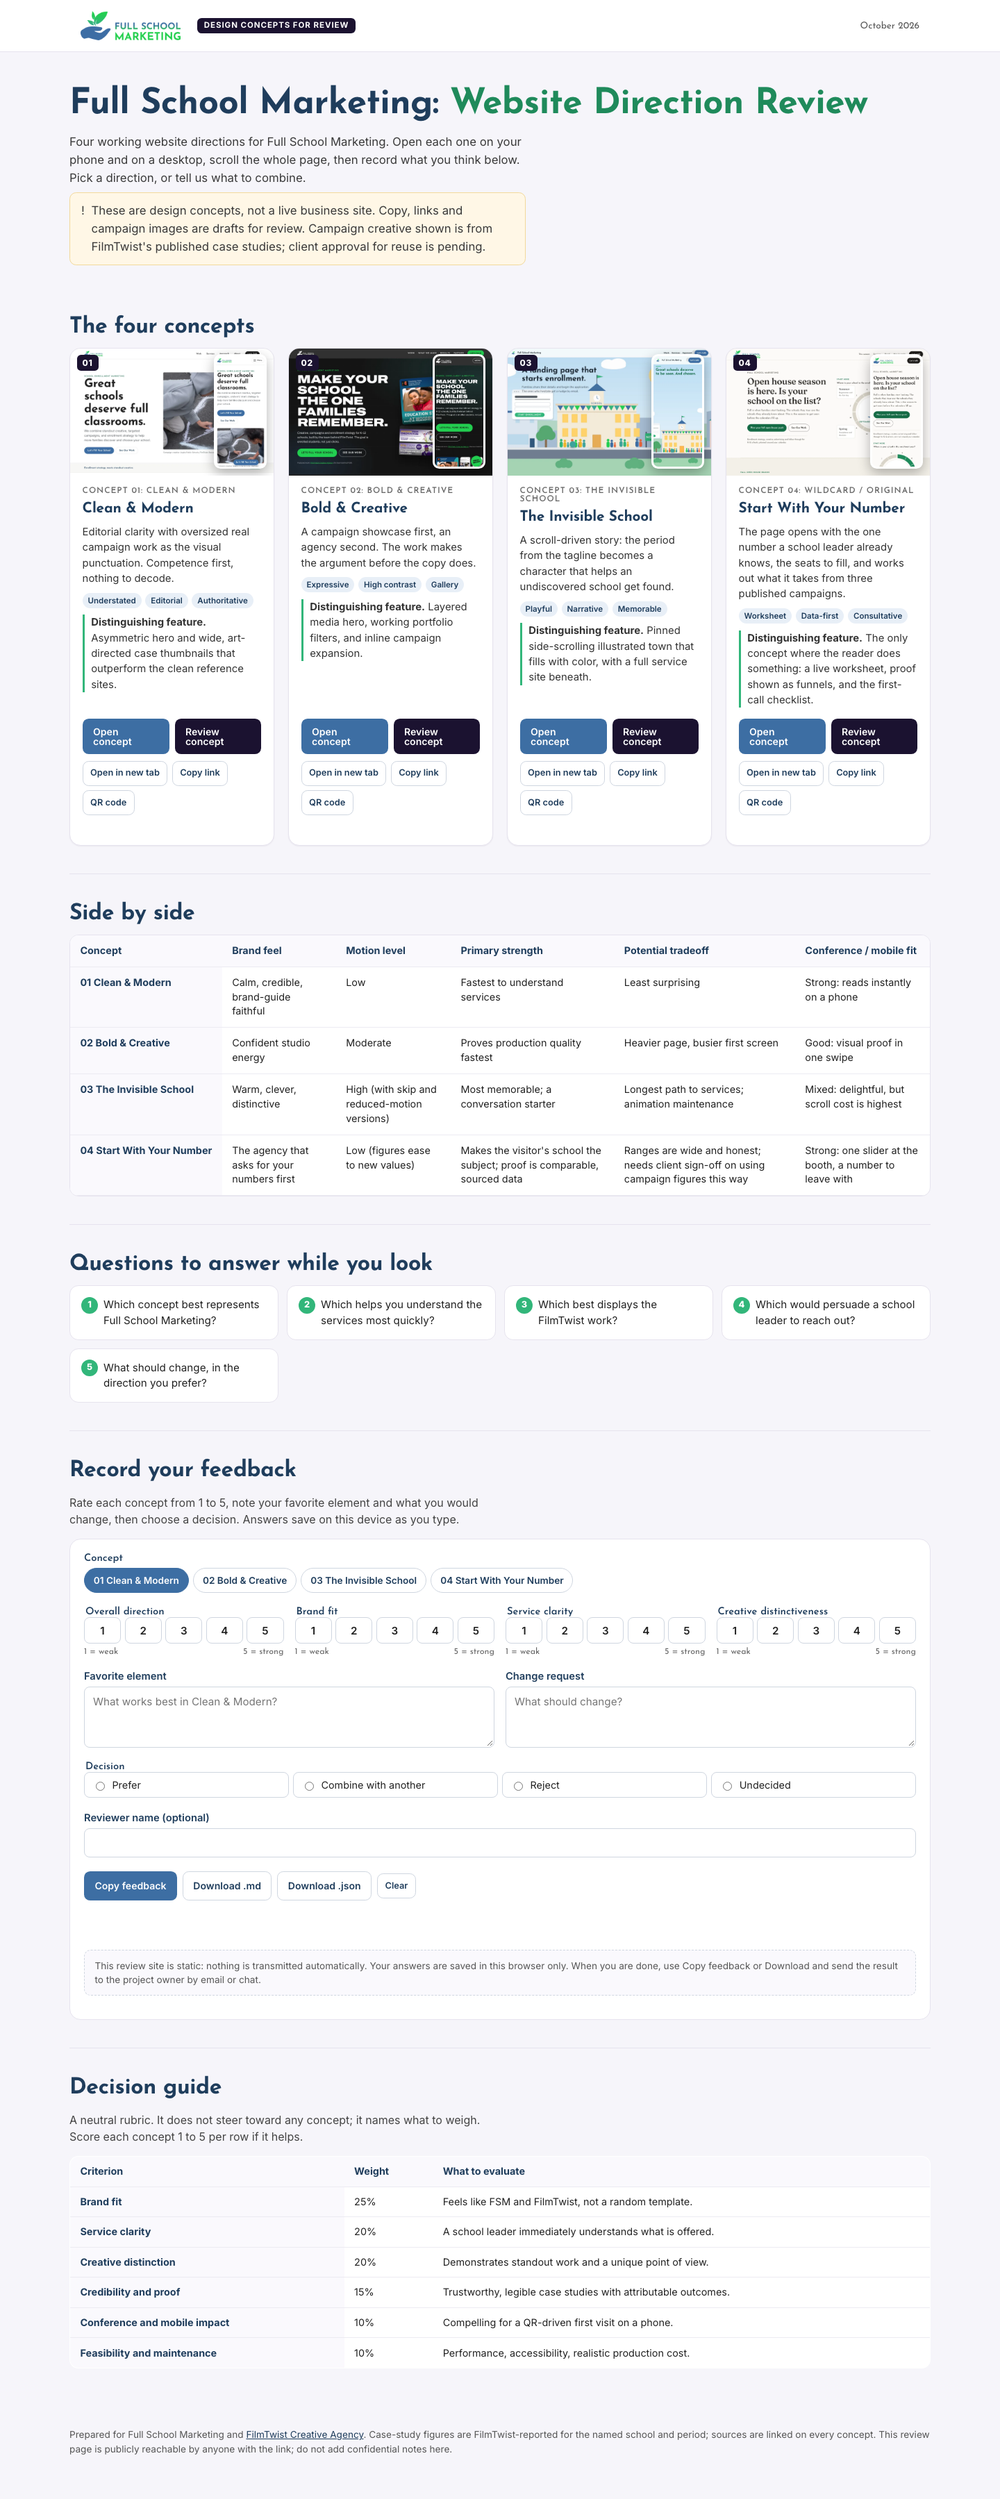
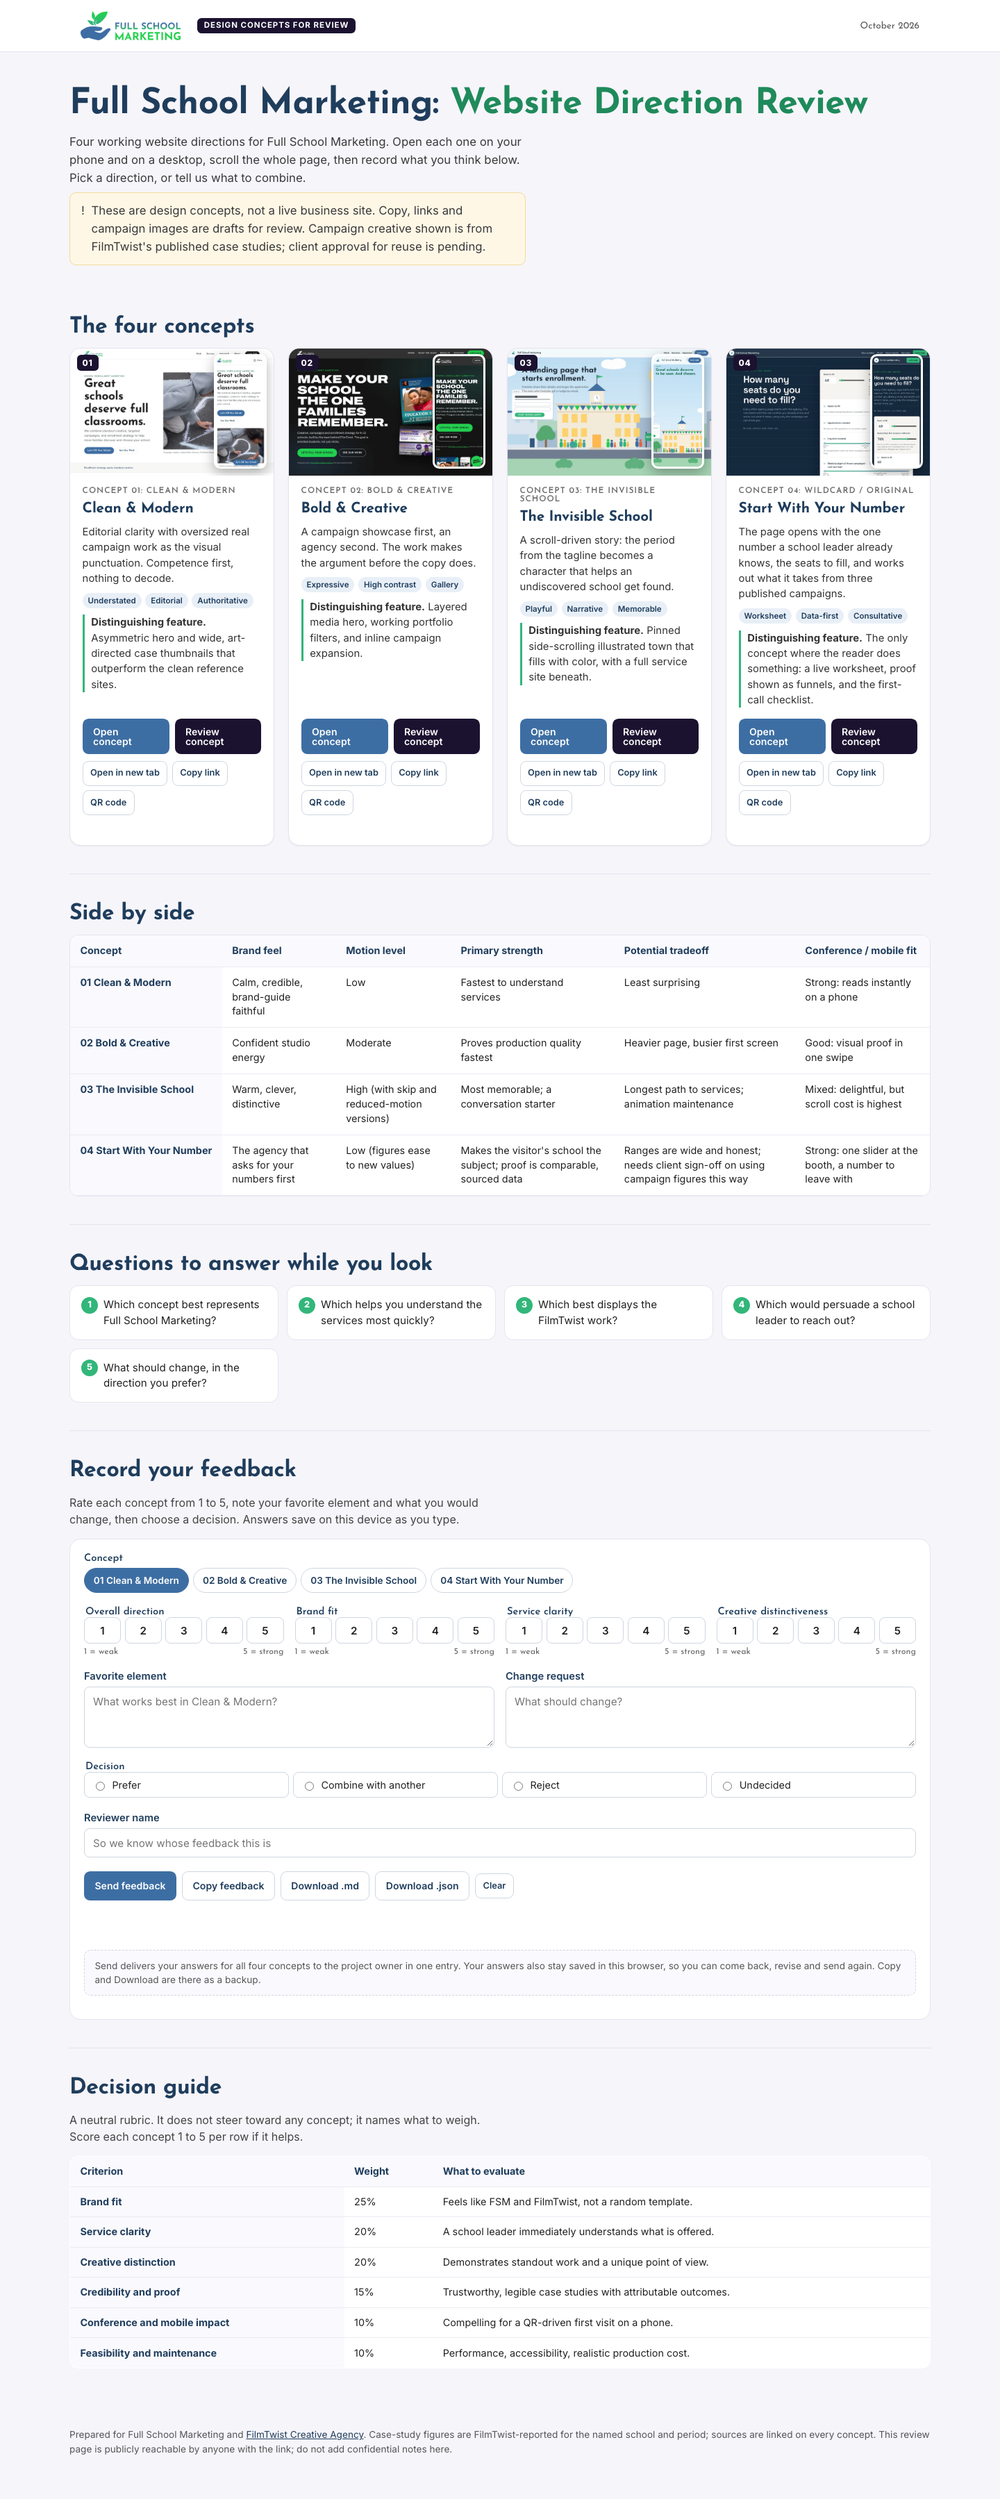
Hub: send feedback to the owner's Google Form (multi-reviewer)
Replaces the unconfigured VITE_FEEDBACK_ENDPOINT path with a working
Send feedback button that posts one form-encoded entry per send to a
Google Form owned by the project owner: reviewer name, per-concept
decision and overall rating, the full Markdown summary and raw JSON.
Name required; untouched concepts send nothing; sent marker persists;
Copy/Download remain as backups. Tests cover the post body and the
blocked cases. Docs, env example and workflow updated.

Changed region(s): [[0.7188, 0.1245, 0.9375, 0.2178], [0.2188, 0.778, 0.25, 0.8091], [0.125, 0.778, 0.1562, 0.8091]]

diff --git a/src/concepts/hub/App.tsx b/src/concepts/hub/App.tsx
@@ -4,7 +4,7 @@ import { siteConfig } from '../../content/config';
 import { brand } from '../../content/media';
 import { SkipLink } from '../../components/SkipLink';
 import { copyText, downloadFile, drawQr } from '../../lib/share';
-import { clearState, emptyConcept, hasAnyInput, loadState, ratingFields, saveState, toJson, toMarkdown, type Decision, type FeedbackState } from './feedback';
+import { clearState, emptyConcept, hasAnyInput, loadState, ratingFields, saveState, sendFeedback, toJson, toMarkdown, type Decision, type FeedbackState } from './feedback';
 
 const REVIEW_DATE = 'October 2026';
 
@@ -73,6 +73,7 @@ function FeedbackForm() {
   const [status, setStatus] = useState('');
   const [submitting, setSubmitting] = useState(false);
   const firstTouch = useRef(true);
+  const justSent = useRef(false);
 
   useEffect(() => {
     const onHash = () => { const id = parseConceptFromHash(); if (id) setSelected(id); };
@@ -87,6 +88,7 @@ function FeedbackForm() {
     if (firstTouch.current) { firstTouch.current = false; return; }
     const next = { ...state, updatedAt: new Date().toISOString() };
     const ok = saveState(next);
+    if (justSent.current) { justSent.current = false; return; } // keep the "sent" message on screen
     setStatus(ok ? `Saved on this device at ${new Date(next.updatedAt).toLocaleTimeString()}.` : 'Could not save on this device (private mode?). Copy or download before leaving.');
   }, [state]);
 
@@ -99,13 +101,20 @@ function FeedbackForm() {
   const dlMd = () => { downloadFile('fsm-website-feedback.md', toMarkdown(state), 'text/markdown'); setStatus('Downloaded fsm-website-feedback.md.'); };
   const dlJson = () => { downloadFile('fsm-website-feedback.json', toJson(state), 'application/json'); setStatus('Downloaded fsm-website-feedback.json.'); };
   const submit = async () => {
-    if (!siteConfig.feedbackEndpoint) return;
+    if (!siteConfig.feedbackEnabled) return;
+    if (!state.reviewer.trim()) { setStatus('Add your name first, so we know whose feedback this is.'); document.getElementById('reviewer')?.focus(); return; }
+    if (filled.length === 0) { setStatus('Rate or comment on at least one concept before sending.'); return; }
     setSubmitting(true);
-    try {
-      const res = await fetch(siteConfig.feedbackEndpoint, { method: 'POST', headers: { 'Content-Type': 'application/json', Accept: 'application/json' }, body: toJson(state) });
-      setStatus(res.ok ? 'Feedback submitted.' : `Submission failed (${res.status}). Copy or download instead.`);
-    } catch { setStatus('Submission failed (network). Copy or download instead.'); }
-    finally { setSubmitting(false); }
+    const submittedAt = new Date().toISOString();
+    const ok = await sendFeedback(state, submittedAt);
+    setSubmitting(false);
+    if (ok) {
+      justSent.current = true;
+      setState((s) => ({ ...s, sentAt: submittedAt }));
+      setStatus(`Feedback sent at ${new Date(submittedAt).toLocaleTimeString()}. You can keep editing and send again; each send is a new entry.`);
+    } else {
+      setStatus('Could not send (network). Copy or download instead and email it to the project owner.');
+    }
   };
 
   return (
@@ -148,23 +157,24 @@ function FeedbackForm() {
       </fieldset>
 
       <div className="form__row">
-        <label htmlFor="reviewer">Reviewer name (optional)</label>
-        <input id="reviewer" type="text" value={state.reviewer} onChange={(e) => setState((s) => ({ ...s, reviewer: e.target.value }))} data-testid="reviewer" autoComplete="name" />
+        <label htmlFor="reviewer">Reviewer name</label>
+        <input id="reviewer" type="text" required value={state.reviewer} onChange={(e) => setState((s) => ({ ...s, reviewer: e.target.value }))} data-testid="reviewer" autoComplete="name" placeholder="So we know whose feedback this is" />
       </div>
 
       <div className="form__actions">
-        <button type="button" className="btn btn--primary" onClick={copyAll} data-testid="copy-feedback">Copy feedback</button>
+        {siteConfig.feedbackEnabled && <button type="button" className="btn btn--primary" onClick={submit} disabled={submitting} data-testid="submit-feedback">{submitting ? 'Sending' : 'Send feedback'}</button>}
+        <button type="button" className="btn btn--ghost" onClick={copyAll} data-testid="copy-feedback">Copy feedback</button>
         <button type="button" className="btn btn--ghost" onClick={dlMd} data-testid="download-md">Download .md</button>
         <button type="button" className="btn btn--ghost" onClick={dlJson} data-testid="download-json">Download .json</button>
-        {siteConfig.feedbackEndpoint && <button type="button" className="btn btn--accent" onClick={submit} disabled={submitting} data-testid="submit-feedback">{submitting ? 'Submitting' : 'Submit feedback'}</button>}
         <button type="button" className="btn btn--ghost btn--small" onClick={() => { if (confirm('Clear all saved feedback on this device?')) { clearState(); setState(loadState()); setStatus('Cleared.'); } }}>Clear</button>
       </div>
       <div className="form__status" role="status" aria-live="polite" data-testid="feedback-status">{status}</div>
 
+      {state.sentAt && <p className="form__note" data-testid="feedback-sent">Last sent {new Date(state.sentAt).toLocaleString()}.</p>}
       <p className="form__note">
-        {siteConfig.feedbackEndpoint
-          ? 'Submit sends your answers to the configured feedback endpoint. Copy and Download always work as a backup.'
-          : 'This review site is static: nothing is transmitted automatically. Your answers are saved in this browser only. When you are done, use Copy feedback or Download and send the result to the project owner by email or chat.'}
+        {siteConfig.feedbackEnabled
+          ? 'Send delivers your answers for all four concepts to the project owner in one entry. Your answers also stay saved in this browser, so you can come back, revise and send again. Copy and Download are there as a backup.'
+          : 'Sending is turned off in this build. Your answers are saved in this browser only. Use Copy feedback or Download and send the result to the project owner.'}
       </p>
 
       {filled.length > 0 && (

diff --git a/tests/smoke.spec.ts b/tests/smoke.spec.ts
@@ -228,7 +228,7 @@ test('Concept 04: the worksheet recomputes from the seat input and the slider', 
   await expect(page.getByTestId('case-study')).toHaveCount(3);
 });
 
-test('Feedback persists across reload, copy/export include answers, and there is no fake submit', async ({ page, context, browserName }) => {
+test('Feedback persists across reload, sends to the form, and copy/export include answers', async ({ page, context, browserName }) => {
   await page.goto('#feedback?concept=creative');
   await settle(page);
   await expect(page.locator('[data-testid="feedback-concept"][data-concept="creative"]')).toHaveAttribute('aria-pressed', 'true');
@@ -245,7 +245,24 @@ test('Feedback persists across reload, copy/export include answers, and there is
   await expect(page.locator('[data-testid="rating-overall"][value="4"]')).toBeChecked();
   await expect(page.getByTestId('favorite')).toHaveValue('The campaign collage hero');
   await expect(page.getByTestId('reviewer')).toHaveValue('Test Reviewer');
-  expect(await page.getByTestId('submit-feedback').count()).toBe(0);
+  // Send: intercept the Google Form post and check what left the browser.
+  const posted: string[] = [];
+  await page.route('https://docs.google.com/forms/**/formResponse', (route) => { posted.push(route.request().postData() ?? ''); return route.fulfill({ status: 200, body: '' }); });
+  await page.getByTestId('submit-feedback').click();
+  await expect(page.getByTestId('feedback-status')).toHaveText(/Feedback sent/);
+  await expect(page.getByTestId('feedback-sent')).toHaveText(/Last sent/);
+  expect(posted).toHaveLength(1);
+  const body = new URLSearchParams(posted[0]);
+  expect(body.get('entry.94783242')).toBe('Test Reviewer');
+  expect(body.get('entry.1585371997')).toBe('prefer');
+  expect(body.get('entry.944882537')).toBe('4');
+  expect(body.get('entry.553541415')).toBeNull(); // untouched concept sends nothing
+  expect(body.get('entry.146796121')).toContain('Lighter first screen on mobile');
+  expect(JSON.parse(body.get('entry.958974456') ?? '{}').concepts.creative.brandFit).toBe(5);
+  // The sent marker survives a reload.
+  await page.reload();
+  await settle(page);
+  await expect(page.getByTestId('feedback-sent')).toHaveText(/Last sent/);
   const [download] = await Promise.all([page.waitForEvent('download'), page.getByTestId('download-md').click()]);
   const path = await download.path();
   const text = path ? (await import('node:fs')).readFileSync(path, 'utf8') : '';
@@ -260,4 +277,18 @@ test('Feedback persists across reload, copy/export include answers, and there is
     const clip = await page.evaluate(() => navigator.clipboard.readText());
     expect(clip).toContain('Lighter first screen on mobile');
   }
+});
+
+test('Feedback send is blocked without a name or any answers, and nothing is posted', async ({ page }) => {
+  await page.goto('#feedback?concept=clean');
+  await settle(page);
+  let posts = 0;
+  await page.route('https://docs.google.com/forms/**/formResponse', (route) => { posts += 1; return route.fulfill({ status: 200, body: '' }); });
+  await page.getByTestId('submit-feedback').click();
+  await expect(page.getByTestId('feedback-status')).toHaveText(/Add your name first/);
+  await expect(page.getByTestId('reviewer')).toBeFocused();
+  await page.getByTestId('reviewer').fill('Nameless Test');
+  await page.getByTestId('submit-feedback').click();
+  await expect(page.getByTestId('feedback-status')).toHaveText(/at least one concept/);
+  expect(posts).toBe(0);
 });

diff --git a/src/concepts/hub/feedback.ts b/src/concepts/hub/feedback.ts
@@ -1,15 +1,16 @@
 import { concepts } from '../../content/concepts';
+import { siteConfig } from '../../content/config';
 
 export type Decision = 'prefer' | 'combine' | 'reject' | 'undecided' | '';
 export interface ConceptFeedback {
   overall: number; brandFit: number; serviceClarity: number; distinctiveness: number;
   favorite: string; change: string; decision: Decision;
 }
-export interface FeedbackState { reviewer: string; concepts: Record<string, ConceptFeedback>; updatedAt: string }
+export interface FeedbackState { reviewer: string; concepts: Record<string, ConceptFeedback>; updatedAt: string; sentAt: string }
 
 export const STORAGE_KEY = 'fsm-review-feedback-v1';
 export const emptyConcept = (): ConceptFeedback => ({ overall: 0, brandFit: 0, serviceClarity: 0, distinctiveness: 0, favorite: '', change: '', decision: '' });
-export const emptyState = (): FeedbackState => ({ reviewer: '', concepts: Object.fromEntries(concepts.map((c) => [c.id, emptyConcept()])), updatedAt: '' });
+export const emptyState = (): FeedbackState => ({ reviewer: '', concepts: Object.fromEntries(concepts.map((c) => [c.id, emptyConcept()])), updatedAt: '', sentAt: '' });
 
 export function loadState(): FeedbackState {
   try {
@@ -54,4 +55,35 @@ export function toMarkdown(s: FeedbackState): string {
 
 export function toJson(s: FeedbackState): string {
   return JSON.stringify({ ...s, concepts: Object.fromEntries(concepts.map((c) => [c.id, { number: c.number, name: c.name, ...s.concepts[c.id] }])) }, null, 2);
+}
+
+/** Form-encoded body for the Google Form in siteConfig.feedbackForm: one entry per send, all four concepts. */
+export function toFormBody(s: FeedbackState, submittedAt: string): URLSearchParams {
+  const f = siteConfig.feedbackForm.fields;
+  const body = new URLSearchParams();
+  body.set(f.reviewer, s.reviewer.trim());
+  body.set(f.submittedAt, submittedAt);
+  body.set(f.page, typeof location !== 'undefined' ? location.href.split('#')[0] : '');
+  for (const c of concepts) {
+    const ids = f.concepts[c.id];
+    const v = s.concepts[c.id];
+    if (!ids || !v || !hasAnyInput(v)) continue;
+    body.set(ids.decision, v.decision || 'not set');
+    body.set(ids.overall, v.overall ? String(v.overall) : 'not rated');
+  }
+  body.set(f.markdown, toMarkdown(s));
+  body.set(f.json, toJson(s));
+  return body;
+}
+
+/**
+ * POST the answers to the Google Form. The form endpoint has no CORS headers, so the request runs in no-cors mode and
+ * the response is opaque: "sent" means the request left the browser without a network error. No field on the form is
+ * required, so a well-formed post is accepted. Verified end to end against the live form; see docs/QA_REPORT.md.
+ */
+export async function sendFeedback(s: FeedbackState, submittedAt: string): Promise<boolean> {
+  try {
+    await fetch(siteConfig.feedbackForm.action, { method: 'POST', mode: 'no-cors', body: toFormBody(s, submittedAt) });
+    return true;
+  } catch { return false; }
 }

diff --git a/src/content/config.ts b/src/content/config.ts
@@ -44,8 +44,26 @@ export const siteConfig = {
 
   /** Review chrome (ribbon + floating review pill). Set VITE_REVIEW_MODE=false for production output. */
   reviewMode: import.meta.env.VITE_REVIEW_MODE !== 'false',
-  /** Optional real submission endpoint (Formspree, Tally webhook, etc.). Empty = copy/download only. */
-  feedbackEndpoint: (import.meta.env.VITE_FEEDBACK_ENDPOINT as string | undefined) || '',
+  /** Review feedback sink: a Google Form owned by the project owner (Drive: Client Work/FilmTwist/03 - Discovery &
+   *  Research, "FilmTwist - FSM Website Feedback - v1 - 2026-10-27"). The hub posts form-encoded answers to it; the ids
+   *  below are public form field ids, not secrets. Set VITE_FEEDBACK=off to disable sending. */
+  feedbackEnabled: import.meta.env.VITE_FEEDBACK !== 'off',
+  feedbackForm: {
+    action: 'https://docs.google.com/forms/d/e/1FAIpQLSfxLQn7be7vDlioYzPOruaodBO59_7rQhT5m-xlKPTJjT2hTg/formResponse',
+    fields: {
+      reviewer: 'entry.94783242',
+      submittedAt: 'entry.689904670',
+      page: 'entry.1299720284',
+      markdown: 'entry.146796121',
+      json: 'entry.958974456',
+      concepts: {
+        clean: { decision: 'entry.553541415', overall: 'entry.1171737971' },
+        creative: { decision: 'entry.1585371997', overall: 'entry.944882537' },
+        story: { decision: 'entry.1440135353', overall: 'entry.335769173' },
+        original: { decision: 'entry.738929427', overall: 'entry.721860725' },
+      },
+    },
+  },
 
   /** Legal placeholders. Do not fabricate policy text. */
   legal: {

diff --git a/README.md b/README.md
@@ -61,7 +61,7 @@ Environment variables (see `.env.example`):
 | --- | --- | --- |
 | `BASE_PATH` | `/` | Vite base. The Pages workflow sets `/<repo-name>/`. Set `/` after moving to a custom domain. |
 | `VITE_REVIEW_MODE` | `true` | `false` hides the reviewer ribbon and floating review pill (production output). |
-| `VITE_FEEDBACK_ENDPOINT` | empty | If set, the hub shows a real Submit button that POSTs JSON to this URL (Formspree, Tally webhook, etc.). If empty, no submit button is shown. |
+| `VITE_FEEDBACK` | `on` | `off` hides the hub's Send feedback button, leaving Copy and Download only. The destination form is set in `src/content/config.ts` (`feedbackForm`). |
 
 ## Deployment (GitHub Pages)
 
@@ -70,15 +70,19 @@ Environment variables (see `.env.example`):
 3. The site is served at `https://<owner>.github.io/<repo-name>/`, with `/clean/`, `/creative/`, `/story/`, `/original/` as real directories, so hard refresh and deep links work without SPA rewrites.
 4. Open Graph image URLs in the five HTML files point at `https://noahbra.github.io/fsm-concepts/og/*.png`; update them if the owner, repo name or domain changes.
 
-Optional repository variables: `VITE_REVIEW_MODE`, `VITE_FEEDBACK_ENDPOINT`.
+Optional repository variables: `VITE_REVIEW_MODE`, `VITE_FEEDBACK`.
 
 Alternatives: Cloudflare Pages or Vercel work with the same `dist/` output (`npm run build`, output directory `dist`, set `BASE_PATH=/`). Use Cloudflare Access (or Vercel password protection) if the client needs genuinely private review; a client-side password on a static site is not access control and is deliberately not implemented.
 
 ## Feedback
 
-The hub form saves answers in the reviewer's browser (localStorage) as they type, for all four concepts. "Copy feedback"
-and "Download .md / .json" always work and include every rated concept. Nothing is transmitted unless
-`VITE_FEEDBACK_ENDPOINT` is configured. Reviewer feedback is never stored in this repository.
+The hub form saves answers in the reviewer's browser (localStorage) as they type, for all four concepts. "Send feedback"
+posts one entry (reviewer name, per-concept decision and overall rating, the full Markdown summary and the raw JSON) to
+a Google Form owned by the project owner; the form id and field ids live in `src/content/config.ts` (`feedbackForm`) and
+are not secrets. Several reviewers can send independently, and a reviewer can revise and send again (each send is a new
+entry). A name is required to send. "Copy feedback" and "Download .md / .json" remain as backups. The form endpoint
+returns an opaque response, so "sent" means the request left the browser; the path was verified end to end against the
+live form (see `docs/QA_REPORT.md`). Reviewer feedback is never stored in this repository.
 
 ## Docs
 

diff --git a/docs/QA_REPORT.md b/docs/QA_REPORT.md
@@ -132,6 +132,6 @@ The full Playwright suite was also run against the live site (`PW_BASE_URL=https
 - Campaign imagery is FilmTwist-published case-study creative with reuse approval pending; it is labeled as such on every concept.
 - No video assets (none approved). Concept 02's "reel" is a thumbnail marquee.
 - The tagline lockup in Concept 03 is live text under the official logo because no logo file with the tagline was supplied.
-- Feedback is stored per device in localStorage; there is no backend. Copy/Download is the delivery path unless `VITE_FEEDBACK_ENDPOINT` is configured.
+- Feedback is stored per device in localStorage and, on "Send feedback", posted as one entry to the project owner's Google Form (`feedbackForm` in `src/content/config.ts`). The form endpoint has no CORS headers, so the browser cannot read the result; a send is confirmed by the request leaving without a network error. Copy/Download remain as backups.
 - The repository and the Pages site are public; the review hub says so and asks reviewers not to add confidential notes.
 - Lighthouse performance scores were measured on a developer laptop with simulated throttling, not on a mid-range phone over real 4G.
